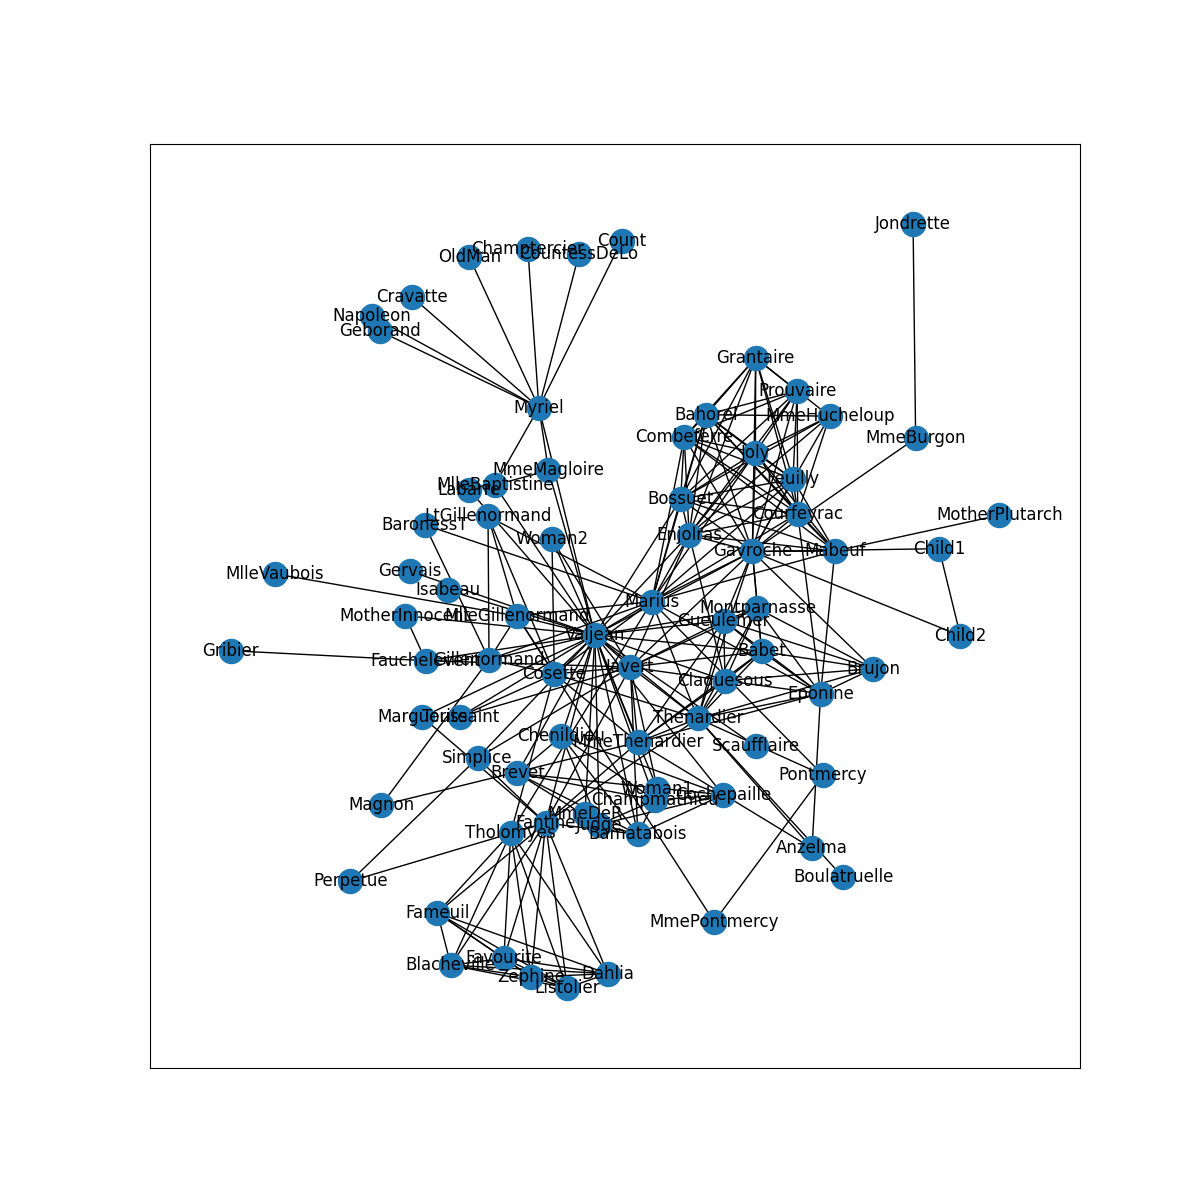
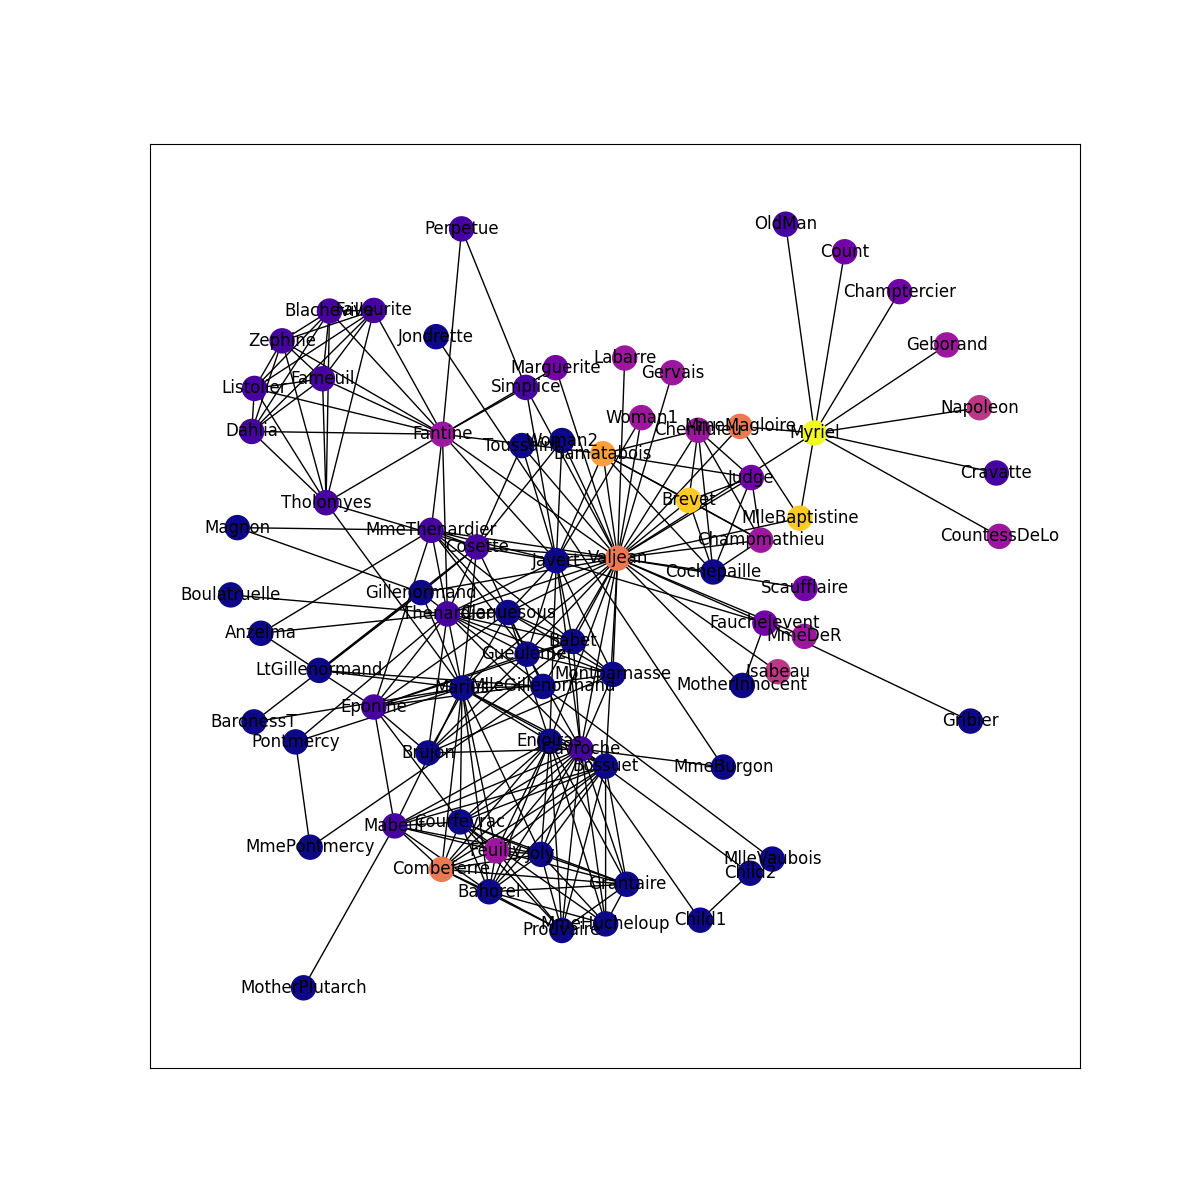
fix

Changed region(s): [[0.1542, 0.1542, 0.8942, 0.8325], [0.2158, 0.8017, 0.3083, 0.8325], [0.7708, 0.5858, 0.8325, 0.6167]]

diff --git a/kameKame.py b/kameKame.py
@@ -6,6 +6,14 @@ from networkx.readwrite import json_graph
 import glob
 import random
 import math
+import plotly.express as px
+from sklearn import preprocessing
+
+
+"""
+中心に寄せてからのやつはやらない
+
+"""
 
 # 勾配ベクトルの一番長いもの(終了条件で使う予定だったけど使ってない)
 
@@ -32,22 +40,6 @@ def calc_delta(pos, Delta, k, l, node_len):
             max_delta = Delta[i]
             max_i = i
     return max_i
-
-
-def shift_center(pos, max_i, node_len):
-    diff_x = pos[max_i][0]-width/2
-    diff_y = pos[max_i][1]-height/2
-    for i in range(node_len):
-        pos[i][0] -= diff_x
-        pos[i][1] -= diff_y
-    return pos
-
-
-def shift_flat(pos, diff_x, diff_y, node_len):
-    for i in range(node_len):
-        pos[i][0] += diff_x
-        pos[i][1] += diff_y
-    return pos
 
 
 height = 800
@@ -120,7 +112,7 @@ Delta = [0]*node_len
 max_i = calc_delta(pos, Delta, k, l, node_len)
 
 
-for cnt1 in range(50):
+for cnt1 in range(10):
     print(cnt1)
     # 全てのノードに対して中心に持ってきて動かす
     for max_i in range(node_len):
@@ -130,9 +122,7 @@ for cnt1 in range(50):
             Eyy = 0
             Ex = 0
             Ey = 0
-            diff_x = pos[max_i][0]-width/2
-            diff_y = pos[max_i][1]-height/2
-            pos = shift_center(pos, max_i, node_len)
+
             for i in range(node_len):
                 if i == max_i:
                     continue
@@ -161,7 +151,6 @@ for cnt1 in range(50):
             pos[max_i][0] += dx
             pos[max_i][1] += dy
 
-            pos = shift_flat(pos, diff_x, diff_y, node_len)
 
 pos0 = [(x, y) for x, y in pos]
 center_idx = 0
@@ -170,7 +159,6 @@ min_edge_len = float("inf")
 for i in range(node_len):
     diff_x = pos[i][0]-width/2
     diff_y = pos[i][1]-height/2
-    pos = shift_center(pos, i, node_len)
 
     def dist(u, v):
         dx = pos[u][0] - pos[v][0]
@@ -183,9 +171,19 @@ for i in range(node_len):
         min_edge_len = max_edge_len
         center_idx = i
 
-    pos = shift_flat(pos, diff_x, diff_y, node_len)
 
-fin_pos = shift_center(pos, center_idx, node_len)
+calc_delta(pos, Delta, k, l, node_len)
+delta01 = preprocessing.minmax_scale(Delta).tolist()
+list_colors = px.colors.sequential.Plasma
+node_color = []
+print("delta01", delta01)
+print(list_colors)
+for i in range(node_len):
+    c_idx = int(delta01[i]*10)
+    print(c_idx)
+    if c_idx >= len(list_colors):
+        c_idx = len(list_colors)-1
+    node_color.append(list_colors[c_idx])
 
 print(center_idx)
 
@@ -195,11 +193,6 @@ for node in graph.nodes:
     dict_pos[node] = pos0[cnt]
     cnt += 1
 
-fin_dict_pos = {}
-cnt = 0
-for node in graph.nodes:
-    fin_dict_pos[node] = fin_pos[cnt]
-    cnt += 1
 
 G = nx.DiGraph()
 
@@ -207,11 +200,6 @@ G.add_nodes_from(graph.nodes)
 G.add_edges_from(graph.edges)
 
 plt.figure(figsize=(12, 12))
-nx.draw_networkx(G, dict_pos, False)
+nx.draw_networkx(G, dict_pos, False, node_color=node_color)
 plt.savefig('kame_result.png')
-plt.show()
-
-plt.figure(figsize=(12, 12))
-nx.draw_networkx(G, fin_dict_pos, False)
-plt.savefig('kame_result_replace.png')
 plt.show()

diff --git a/dorakue.py b/dorakue.py
@@ -6,6 +6,40 @@ from networkx.readwrite import json_graph
 import glob
 import random
 import math
+import plotly.express as px
+from sklearn import preprocessing
+
+
+"""
+K, Lを除いた版も試してみる？
+"""
+
+# 理想の長さと実際の長さ  sum(d[u][v]-dist(u, v) )**2
+
+
+def calc_delta(pos,  k, l, node_len):
+    Delta = [0]*node_len
+    for i in range(node_len):
+        Ex = 0
+        Ey = 0
+        # 中心に持ってきてから
+        diff_x = pos[i][0]-width/2
+        diff_y = pos[i][1]-height/2
+        pos = shift_center(pos, i, node_len)
+        for j in range(node_len):
+            if i == j:
+                continue
+            norm = math.sqrt((pos[i][0]-pos[j][0]) **
+                             2 + (pos[i][1]-pos[j][1])**2)
+            dx_ij = pos[i][0]-pos[j][0]
+            dy_ij = pos[i][1]-pos[j][1]
+
+            Ex += k[i][j]*dx_ij*(1.0-l[i][j]/norm)
+            Ey += k[i][j]*dy_ij*(1.0-l[i][j]/norm)
+        Delta[i] = math.sqrt(Ex*Ex+Ey*Ey)
+        pos = shift_flat(pos, diff_x, diff_y, node_len)
+
+    return Delta
 
 
 def dorakue(pos):
@@ -96,8 +130,8 @@ for i in range(node_len):
         l[i][j] = d[i][j]
         k[i][j] = 1/(d[i][j]*d[i][j])
 
-height = maxd*2
-width = maxd*2
+height = maxd*1.5
+width = maxd*1.5
 
 print("width,height", width)
 
@@ -179,6 +213,15 @@ for i in range(node_len):
 
 fin_pos = shift_center(pos, center_idx, node_len)
 
+delta = calc_delta(pos,  k, l, node_len)
+delta01 = preprocessing.minmax_scale(delta).tolist()
+list_colors = px.colors.sequential.Plasma
+node_color = []
+for i in range(node_len):
+    c_idx = int(delta01[i]*10)
+    if c_idx >= len(list_colors):
+        c_idx = len(list_colors)-1
+    node_color.append(list_colors[c_idx])
 
 dict_pos = {}
 cnt = 0
@@ -192,17 +235,21 @@ for node in graph.nodes:
     fin_dict_pos[node] = fin_pos[cnt]
     cnt += 1
 
+# dist_score = sum((d[node2num[u]][node2num[v]] -
+#                  dist(node2num[u], node2num[v])for u, v in graph.edges))
+
+
 G = nx.DiGraph()
 
 G.add_nodes_from(graph.nodes)
 G.add_edges_from(graph.edges)
 
-plt.figure(figsize=(12, 12))
-nx.draw_networkx(G, dict_pos, False)
-plt.savefig('result.png')
-plt.show()
+# plt.figure(figsize=(12, 12))
+# nx.draw_networkx(G, dict_pos, False, node_color=node_color)
+# plt.savefig('result.png')
+# plt.show()
 
 plt.figure(figsize=(12, 12))
-nx.draw_networkx(G, fin_dict_pos, False)
+nx.draw_networkx(G, fin_dict_pos, False, node_color=node_color)
 plt.savefig('result2.png')
 plt.show()
